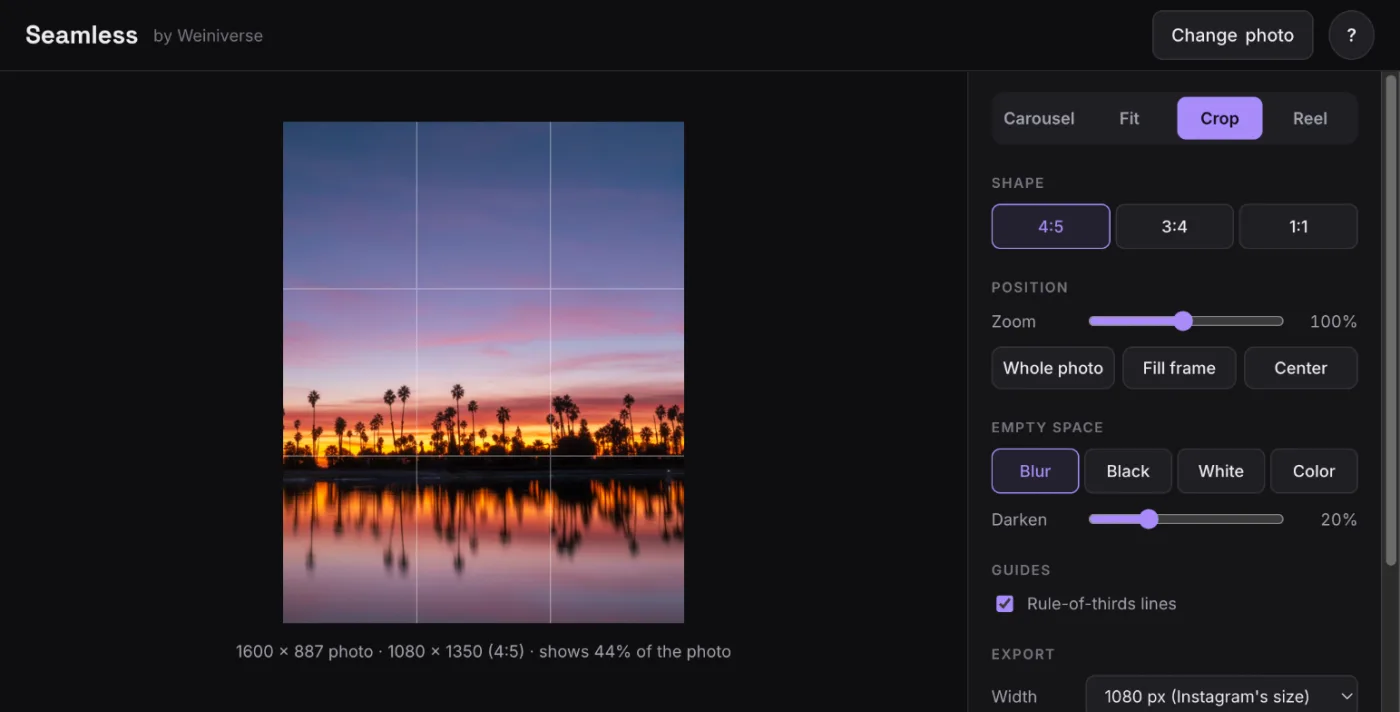
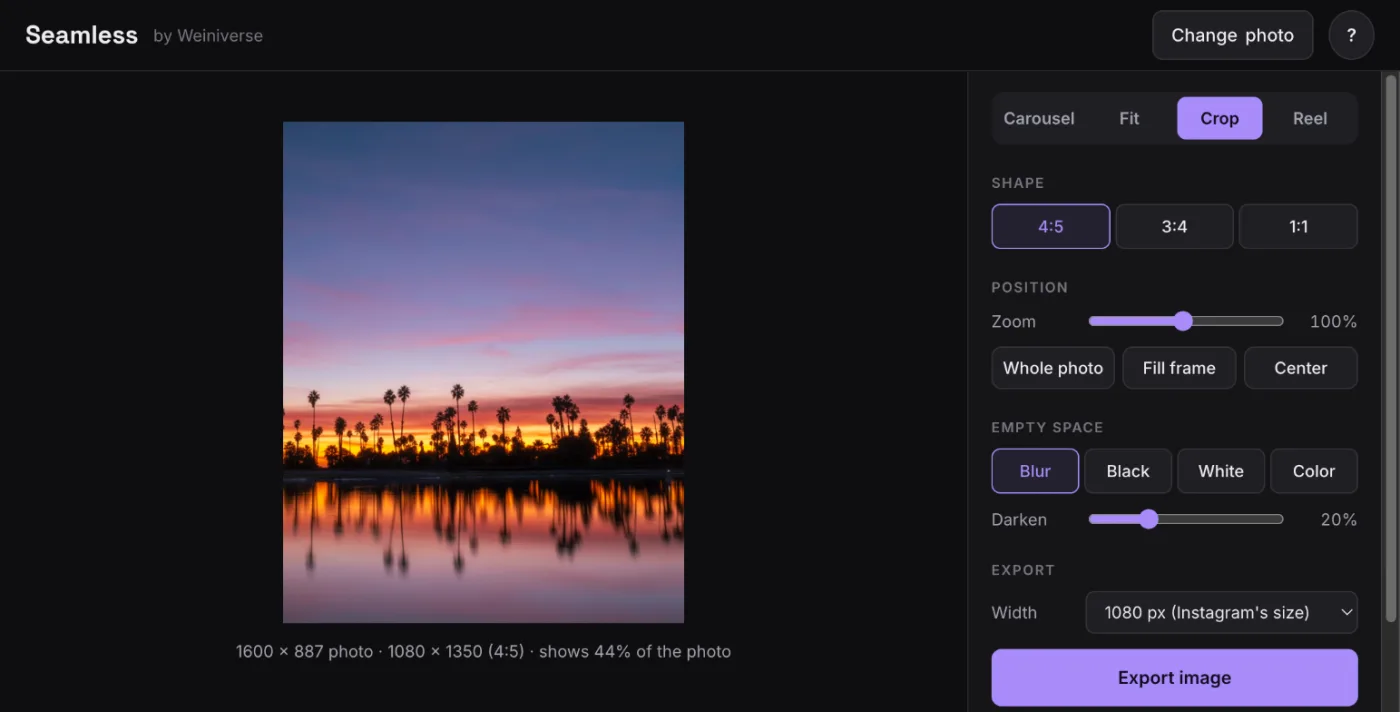
Seamless: remove the rule-of-thirds guides to keep the panel simple

diff --git a/seamless/index.html b/seamless/index.html
@@ -549,11 +549,6 @@
           </div>
         </div>
 
-        <div class="group" data-for="carousel fit crop">
-          <h3>Guides</h3>
-          <label class="check"><input type="checkbox" id="thirds" /> Rule-of-thirds lines</label>
-        </div>
-
         <div class="group" data-for="reel">
           <h3>Pan</h3>
           <div class="row">
@@ -670,8 +665,8 @@
 
       <section data-help="crop" hidden>
         <p>Frame a tall version of the photo for Instagram, and keep the full photo for your website.</p>
-        <figure><img src="help/crop.webp" width="1400" height="712" alt="A 4:5 crop of a photo with rule-of-thirds lines" loading="lazy" /></figure>
-        <p>Choose a shape, then drag and zoom until the framing looks right. Turn on <b>Rule-of-thirds lines</b> under Guides to help place the horizon or your subject. The panel's info line shows how much of the photo the crop keeps.</p>
+        <figure><img src="help/crop.webp" width="1400" height="712" alt="A 4:5 crop of a sunset photo" loading="lazy" /></figure>
+        <p>Choose a shape, then drag and zoom until the framing looks right. The line under the photo shows how much of it the crop keeps.</p>
       </section>
 
       <section data-help="reel" hidden>
@@ -756,7 +751,7 @@
         fit: { n: 1, shape: "4:5", zoom: 1, ox: 0, oy: 0 },
         crop: { n: 1, shape: "4:5", zoom: 1, ox: 0, oy: 0 },
       },
-      fill: "blur", color: "#1a1a1a", dim: 0.2, outW: 1080, thirds: false,
+      fill: "blur", color: "#1a1a1a", dim: 0.2, outW: 1080,
       reel: { dur: 8, p0: 0, p1: 1, z0: 1, z1: 1.06, v: 0.5, ease: true, t: 0, playing: false },
       fix: null,   // { entry, step, stash } while adjusting one batch photo
     };
@@ -1041,18 +1036,6 @@
       // Overlays in CSS pixels
       vctx.setTransform(dpr, 0, 0, dpr, 0, 0);
       const pw = f.pw * vs, ph = f.ph * vs;
-      if (S.thirds) {
-        vctx.strokeStyle = "rgba(255,255,255,.35)";
-        vctx.lineWidth = 1;
-        vctx.beginPath();
-        for (let i = 0; i < f.n; i++) {
-          for (const t of [1 / 3, 2 / 3]) {
-            vctx.moveTo(i * pw + t * pw, 0); vctx.lineTo(i * pw + t * pw, ph);
-            vctx.moveTo(i * pw, t * ph); vctx.lineTo(i * pw + pw, t * ph);
-          }
-        }
-        vctx.stroke();
-      }
       if (f.n > 1) {
         cutLines(vctx, f.n, pw, ph, true);
         vctx.font = "600 11px Inter, system-ui, sans-serif";
@@ -1152,7 +1135,6 @@
       set("dim", Math.round(S.dim * 100), Math.round(S.dim * 100) + "%");
       $("#color").value = S.color;
       $("#outW").value = String(S.outW);
-      $("#thirds").checked = S.thirds;
     }
 
     function syncPanel() {
@@ -1387,10 +1369,6 @@
     $("#color").oninput = (e) => {
       S.color = e.target.value;
       changed();
-    };
-    $("#thirds").onchange = (e) => {
-      S.thirds = e.target.checked;
-      requestDraw();
     };
     $("#outW").onchange = (e) => {
       S.outW = Number(e.target.value);
